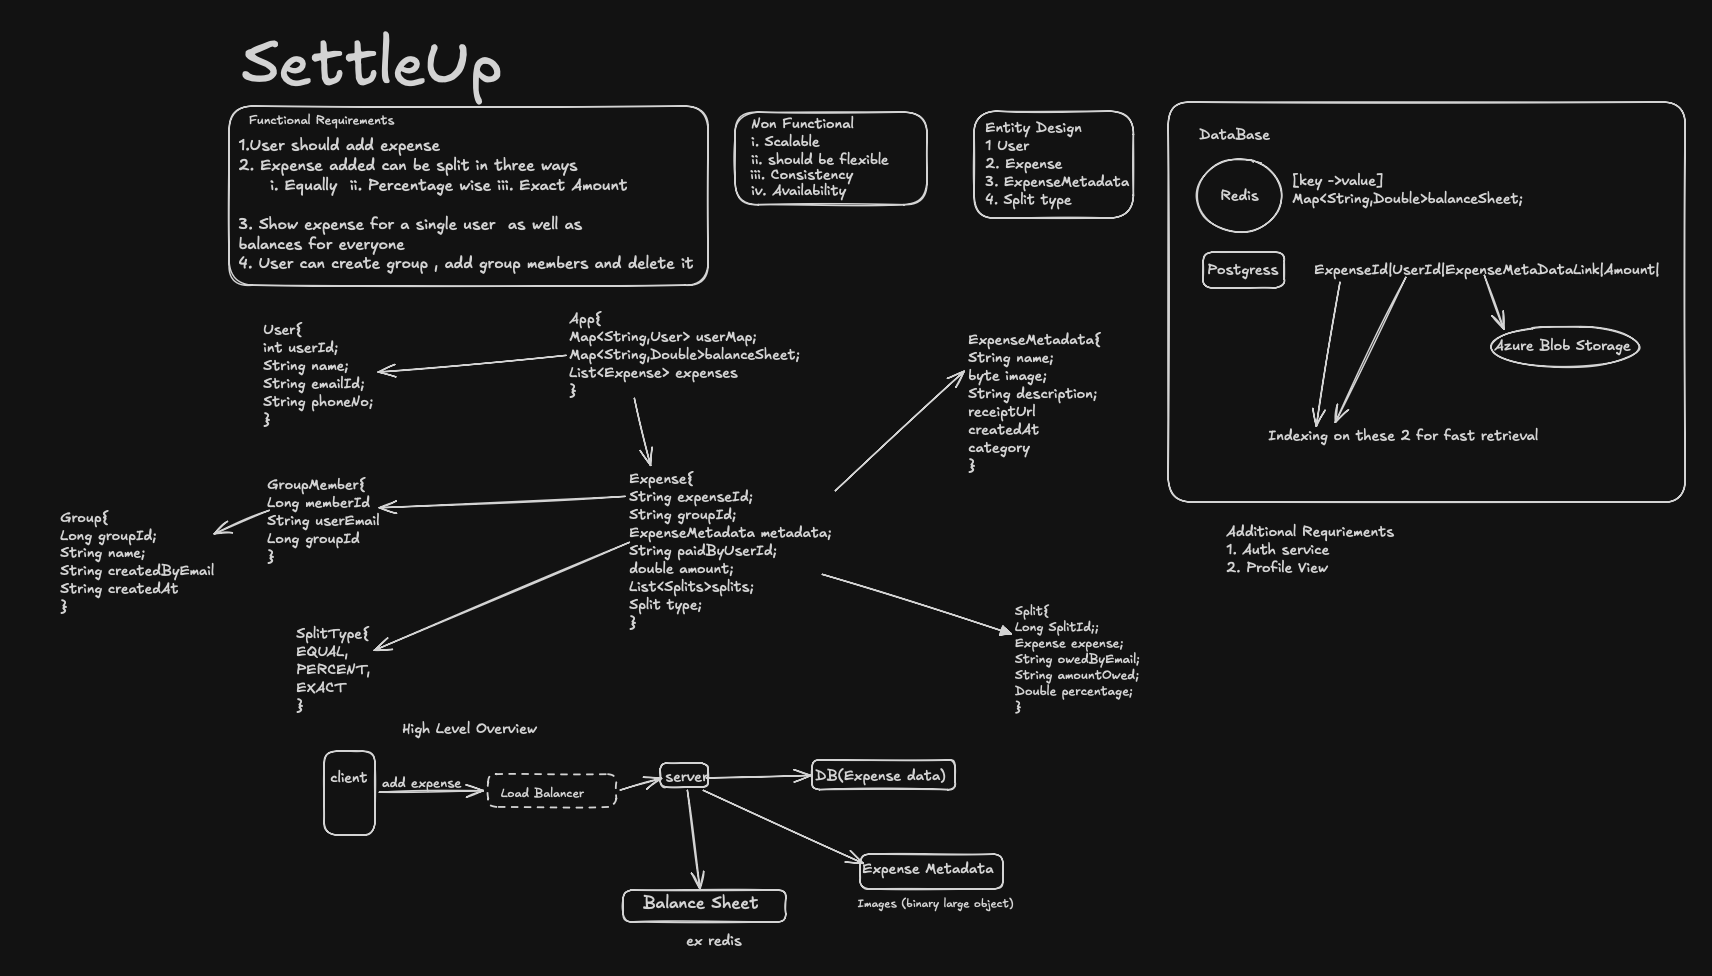
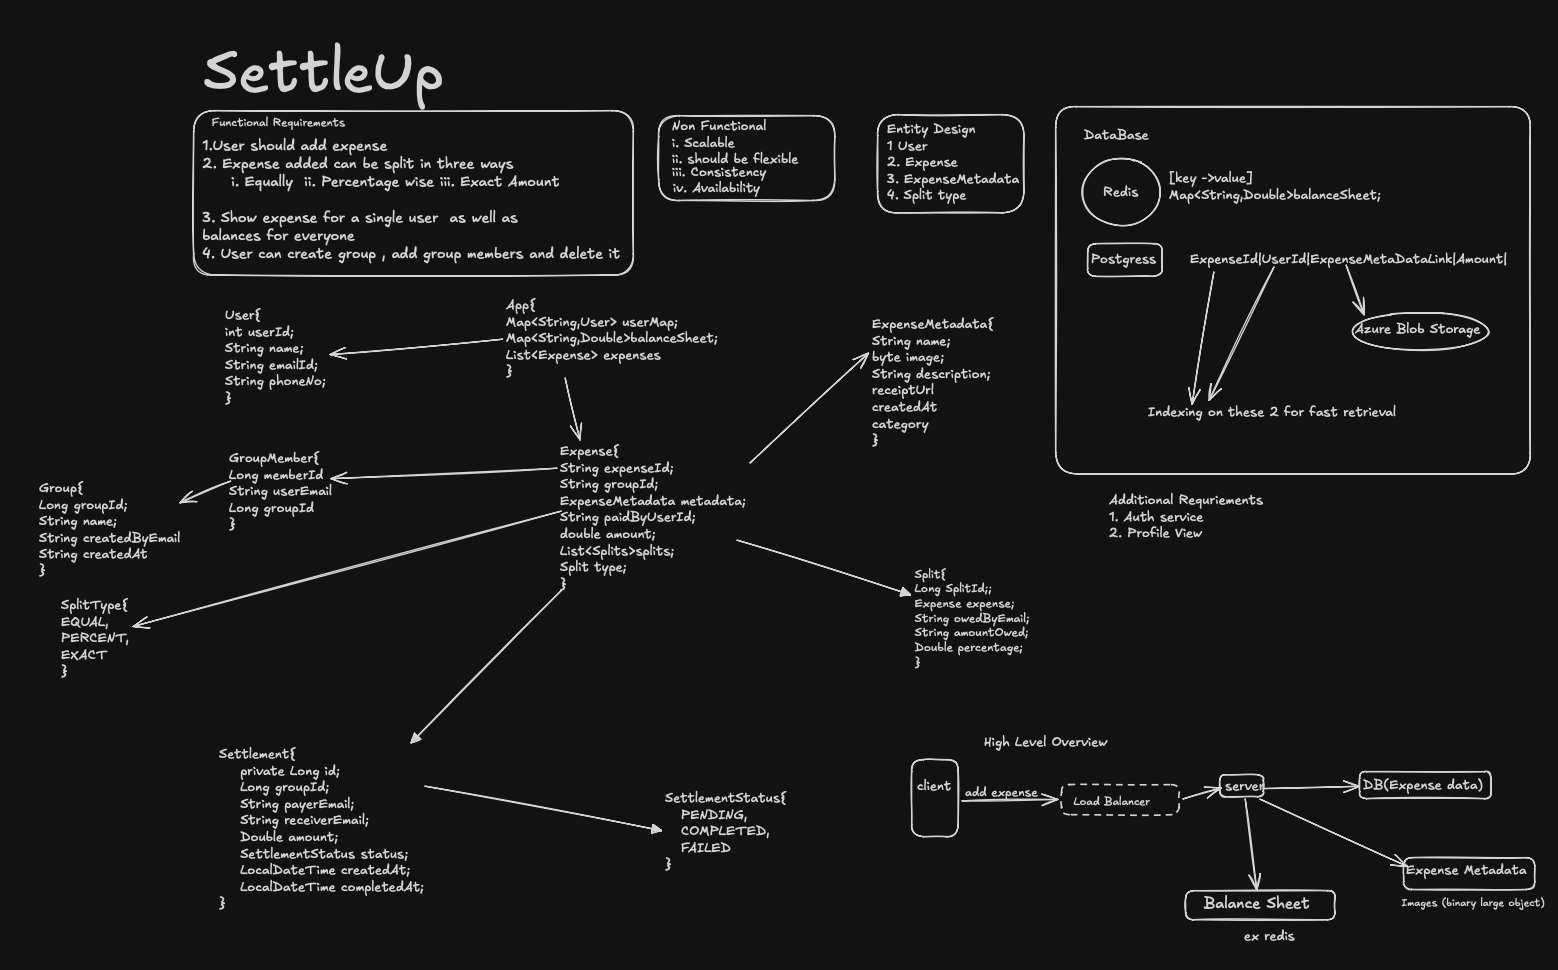
design modified

diff --git a/balance_service/src/main/java/com/SettleUp/balance_service/client/ExpenseonClient.java b/balance_service/src/main/java/com/SettleUp/balance_service/client/ExpenseonClient.java
@@ -1,0 +1,25 @@
+package com.SettleUp.balance_service.client;
+
+
+
+
+import org.springframework.cloud.openfeign.FeignClient;
+import org.springframework.web.bind.annotation.GetMapping;
+import org.springframework.web.bind.annotation.PathVariable;
+
+import com.SettleUp.balance_service.DTO.ExpenseResponse;
+
+import java.util.List;
+
+// This tells Feign to automatically route requests to our API Gateway on port 8080!
+@FeignClient(name = "api-gateway", url = "http://localhost:8080")
+public interface ExpenseonClient {
+
+    // We pass the JWT token automatically through a Feign Interceptor (we'll add this later if needed, 
+    // but for now, we will pass the Authorization header dynamically).
+    @GetMapping(value = "/api/v1/groups/{groupId}/expenses", headers = "Authorization={token}")
+    List<ExpenseResponse> getGroupExpenses(
+            @PathVariable("groupId") Long groupId,
+            @org.springframework.web.bind.annotation.RequestHeader("Authorization") String token
+    );
+}

diff --git a/balance_service/src/main/java/com/SettleUp/balance_service/DTO/ExpenseResponse.java b/balance_service/src/main/java/com/SettleUp/balance_service/DTO/ExpenseResponse.java
@@ -1,0 +1,11 @@
+package com.SettleUp.balance_service.DTO;
+
+import java.util.List;
+
+public record ExpenseResponse(
+    Long id,
+    String paidByEmail,
+    Double amount,
+    List<SplitResponse> splits) {
+
+}

diff --git a/balance_service/src/main/java/com/SettleUp/balance_service/DTO/DebtResponse.java b/balance_service/src/main/java/com/SettleUp/balance_service/DTO/DebtResponse.java
@@ -1,0 +1,9 @@
+package com.SettleUp.balance_service.DTO;
+
+
+
+public record DebtResponse(
+    String debtorEmail,  
+    String creditorEmail, 
+    Double amount
+) {}

diff --git a/balance_service/src/main/java/com/SettleUp/balance_service/DTO/SplitResponse.java b/balance_service/src/main/java/com/SettleUp/balance_service/DTO/SplitResponse.java
@@ -1,0 +1,7 @@
+package com.SettleUp.balance_service.DTO;
+
+
+public record SplitResponse(
+    String owedByEmail,
+    Double amountOwed
+) {}

diff --git a/balance_service/src/main/java/com/SettleUp/balance_service/BalanceServiceApplication.java b/balance_service/src/main/java/com/SettleUp/balance_service/BalanceServiceApplication.java
@@ -2,8 +2,10 @@ package com.SettleUp.balance_service;
 
 import org.springframework.boot.SpringApplication;
 import org.springframework.boot.autoconfigure.SpringBootApplication;
+import org.springframework.cloud.openfeign.EnableFeignClients;
 
 @SpringBootApplication
+@EnableFeignClients
 public class BalanceServiceApplication {
 
 	public static void main(String[] args) {